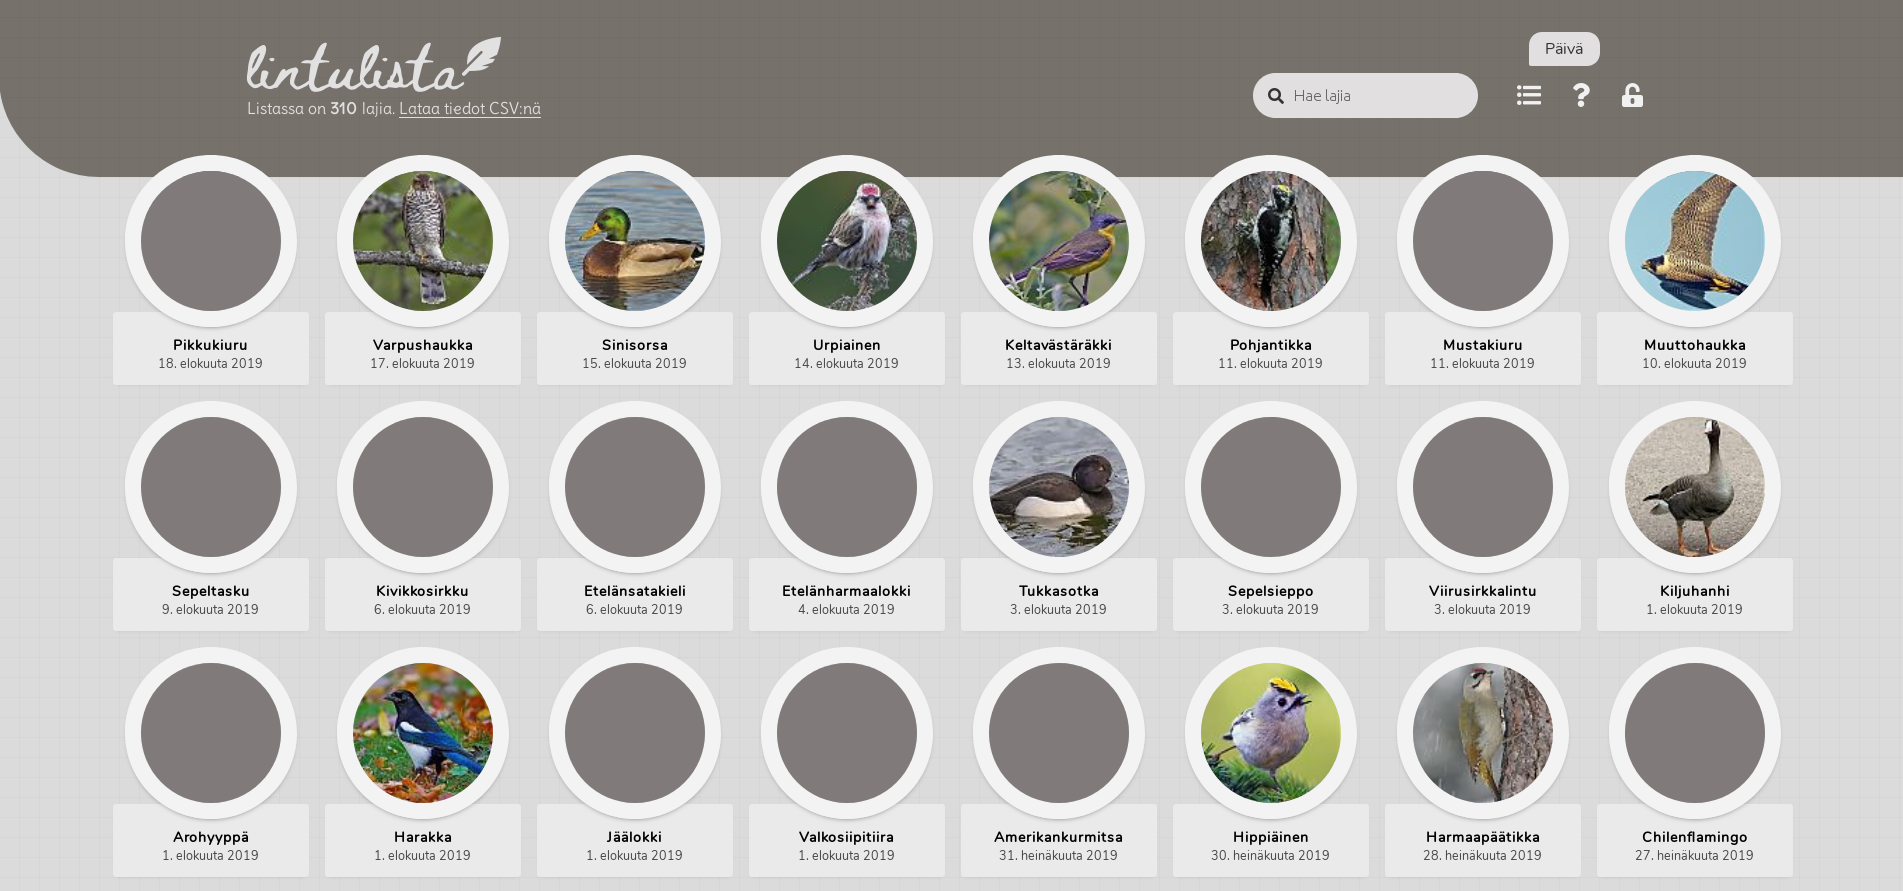
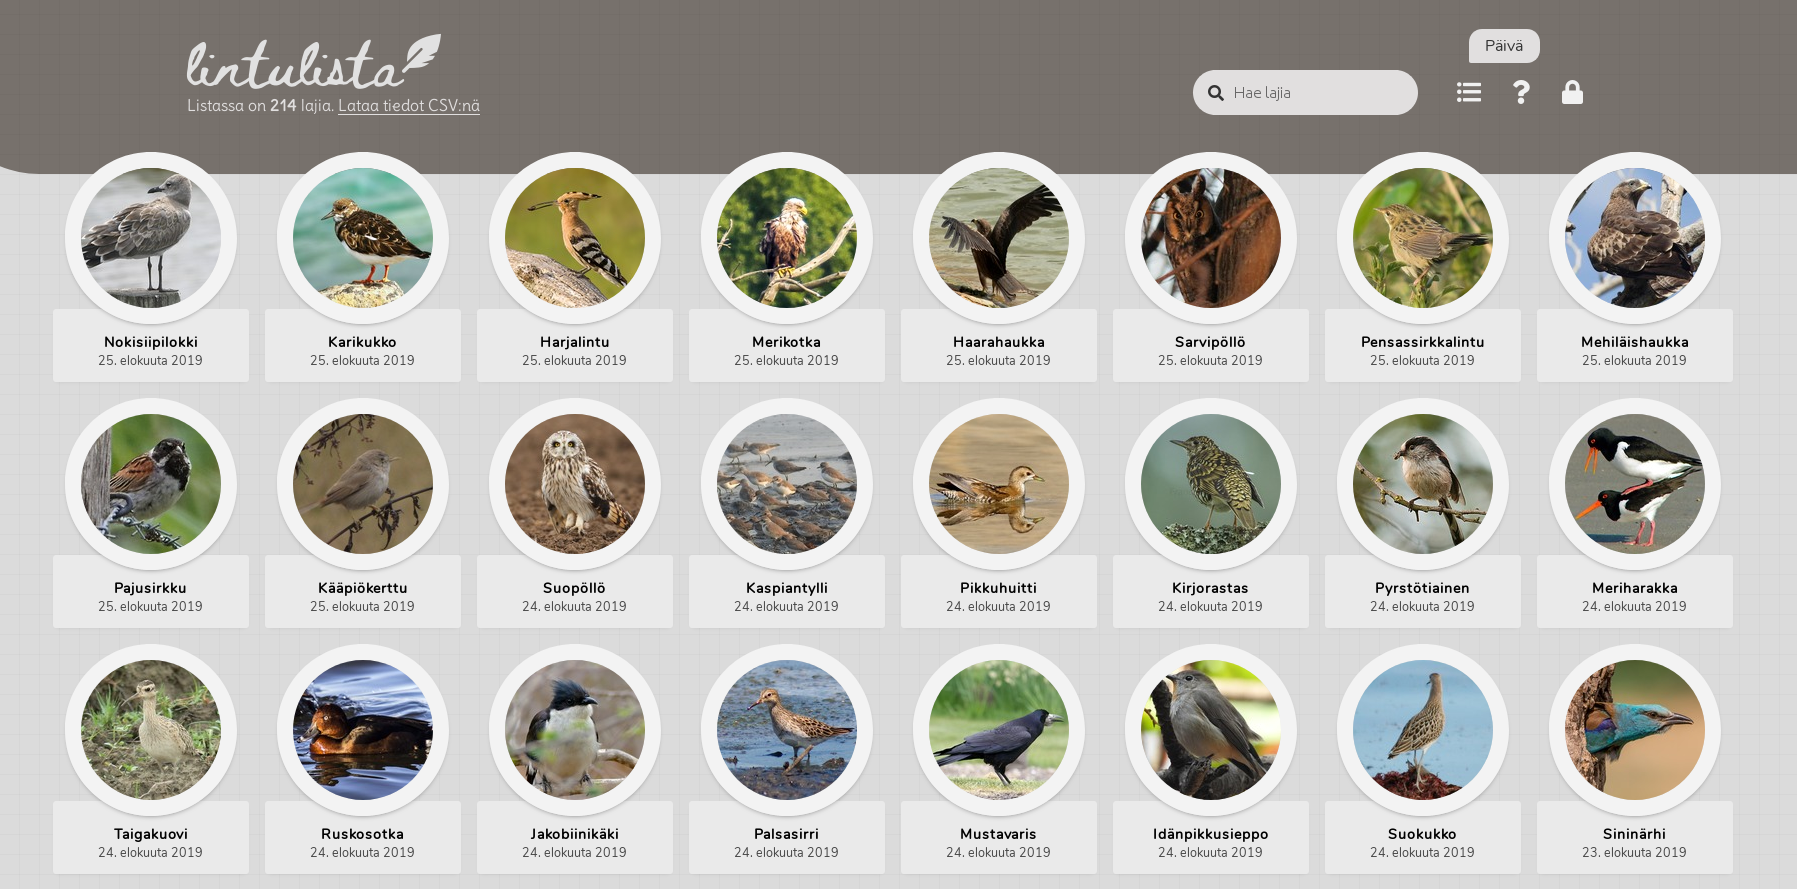
Update README.md
Add a screenshot of Lintulista; and note authorship of bird images.

diff --git a/README.md b/README.md
@@ -11,6 +11,8 @@ You can find Lintulista live on the web [here](http://www.tarpeeksihyvaesoft.com
 - Share your sightings with others via a URL
 - Integrates BirdLife Finland's 100 Lajia challenge
 
+![](images/screenshots/lintulista-beta.1.png)
+
 # Code
 Lintulista's code comes in two 'modules' if you will: the client, and the server. The client handles the end-user UI and so on, while the server takes care of backend duties like managing access to the database.
 
@@ -198,6 +200,8 @@ Below are rough estimates of the required browser versions to run Lintulista. Br
 </table>
 
 # Credits
+The bird thumbnails used in Lintulista come from photographs taken by a variety of authors. Please see [guide/images.html](guide/images.html) for a full list.
+
 Lintulista uses the [React](https://reactjs.org/) library for most of its UI.
 
 Lintulista makes use of certain fonts from [Google Fonts](https://fonts.google.com/): Nunito, Delius, and Beth Ellen.
